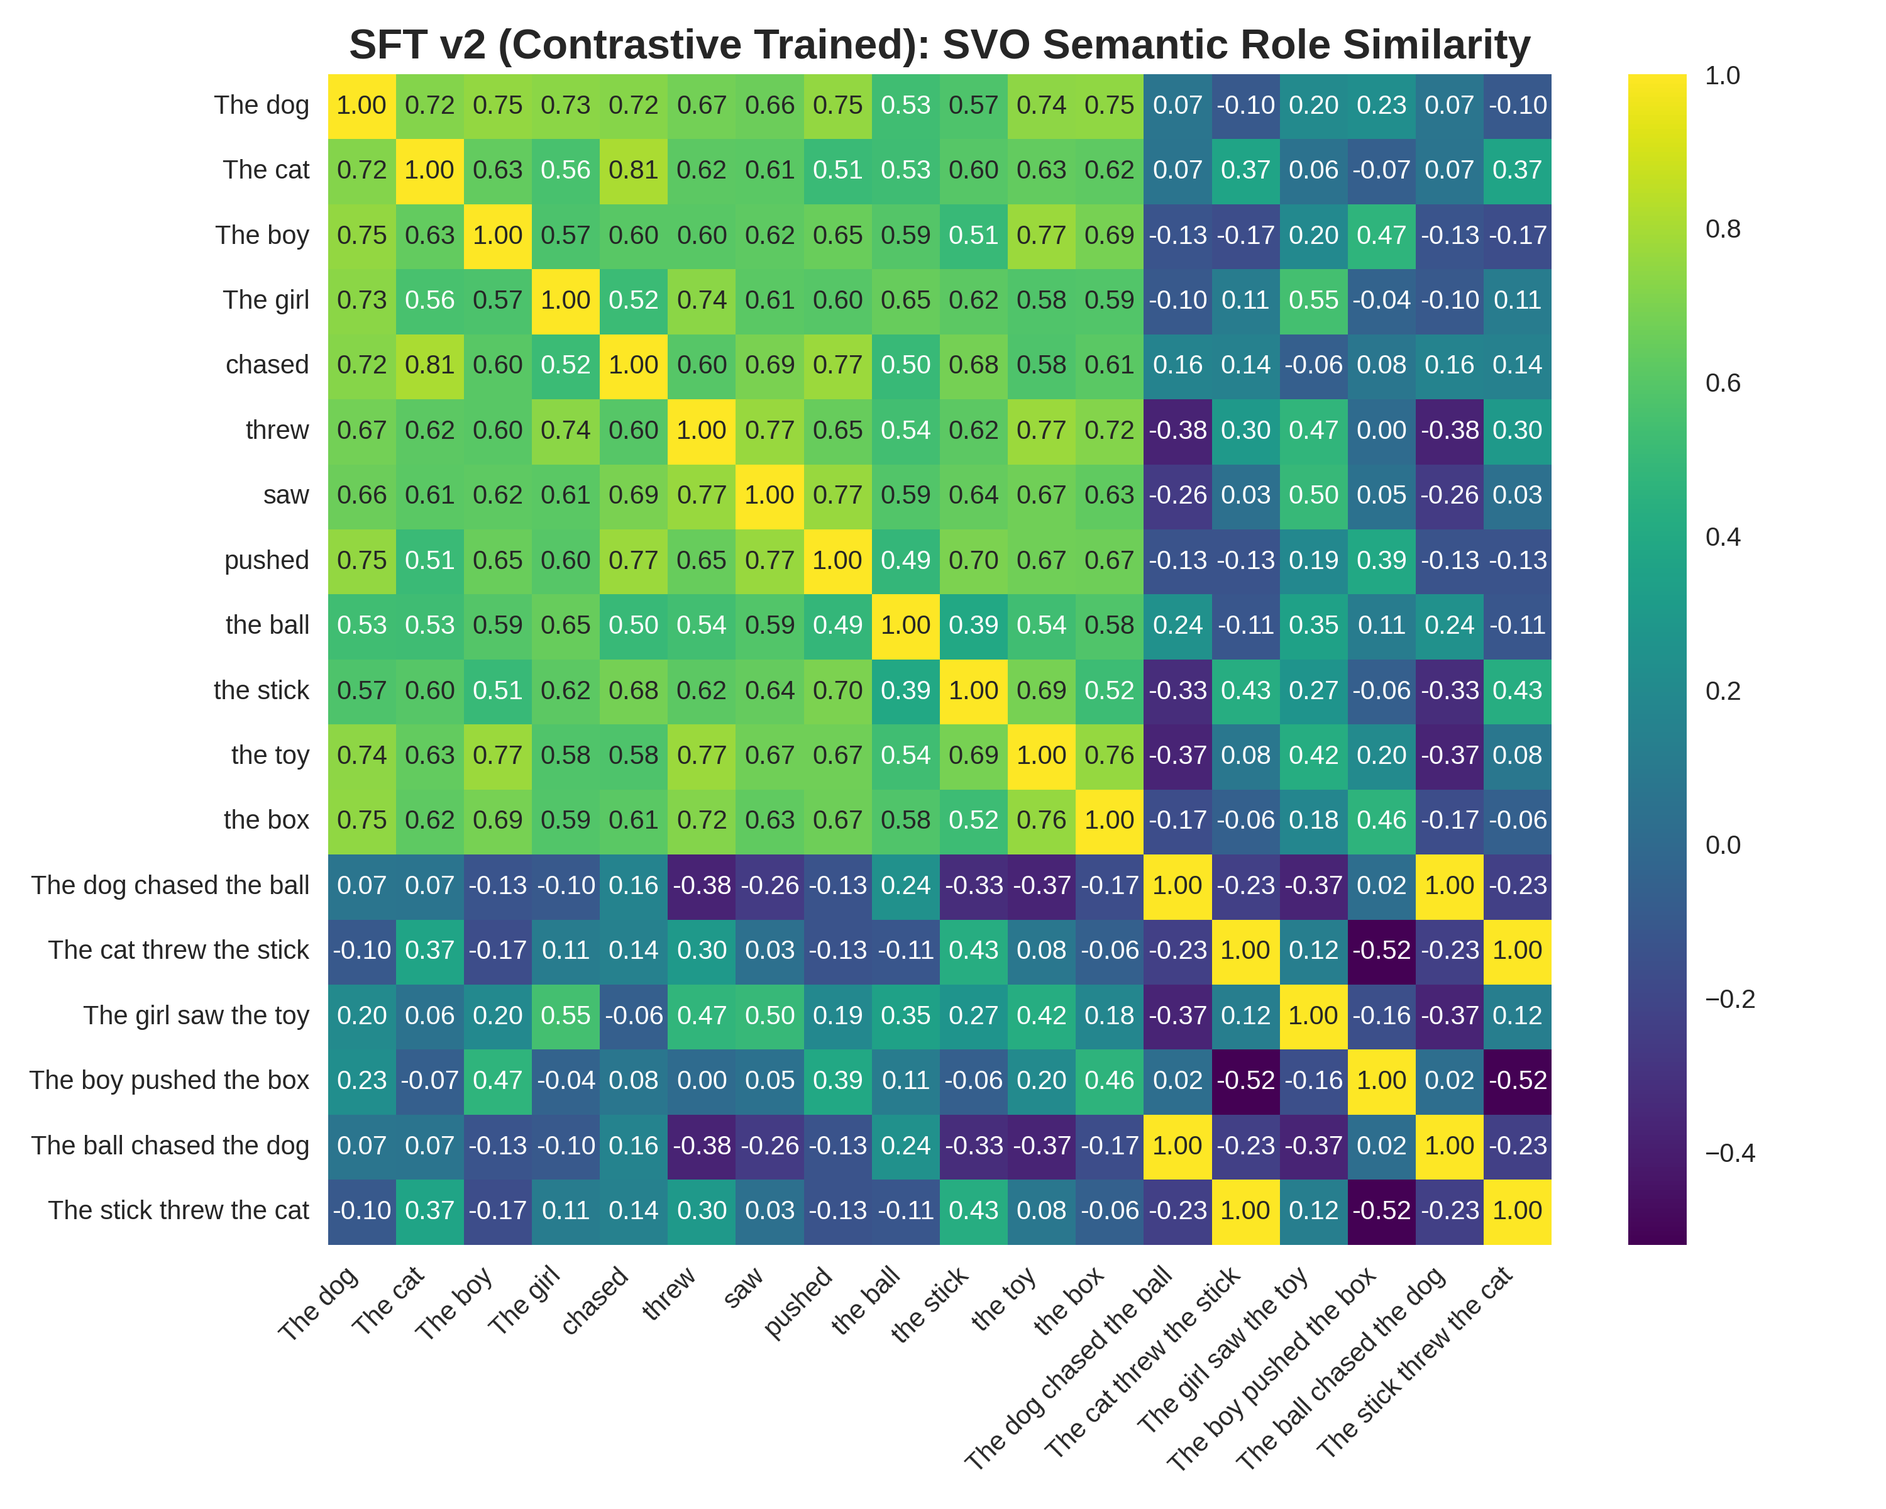
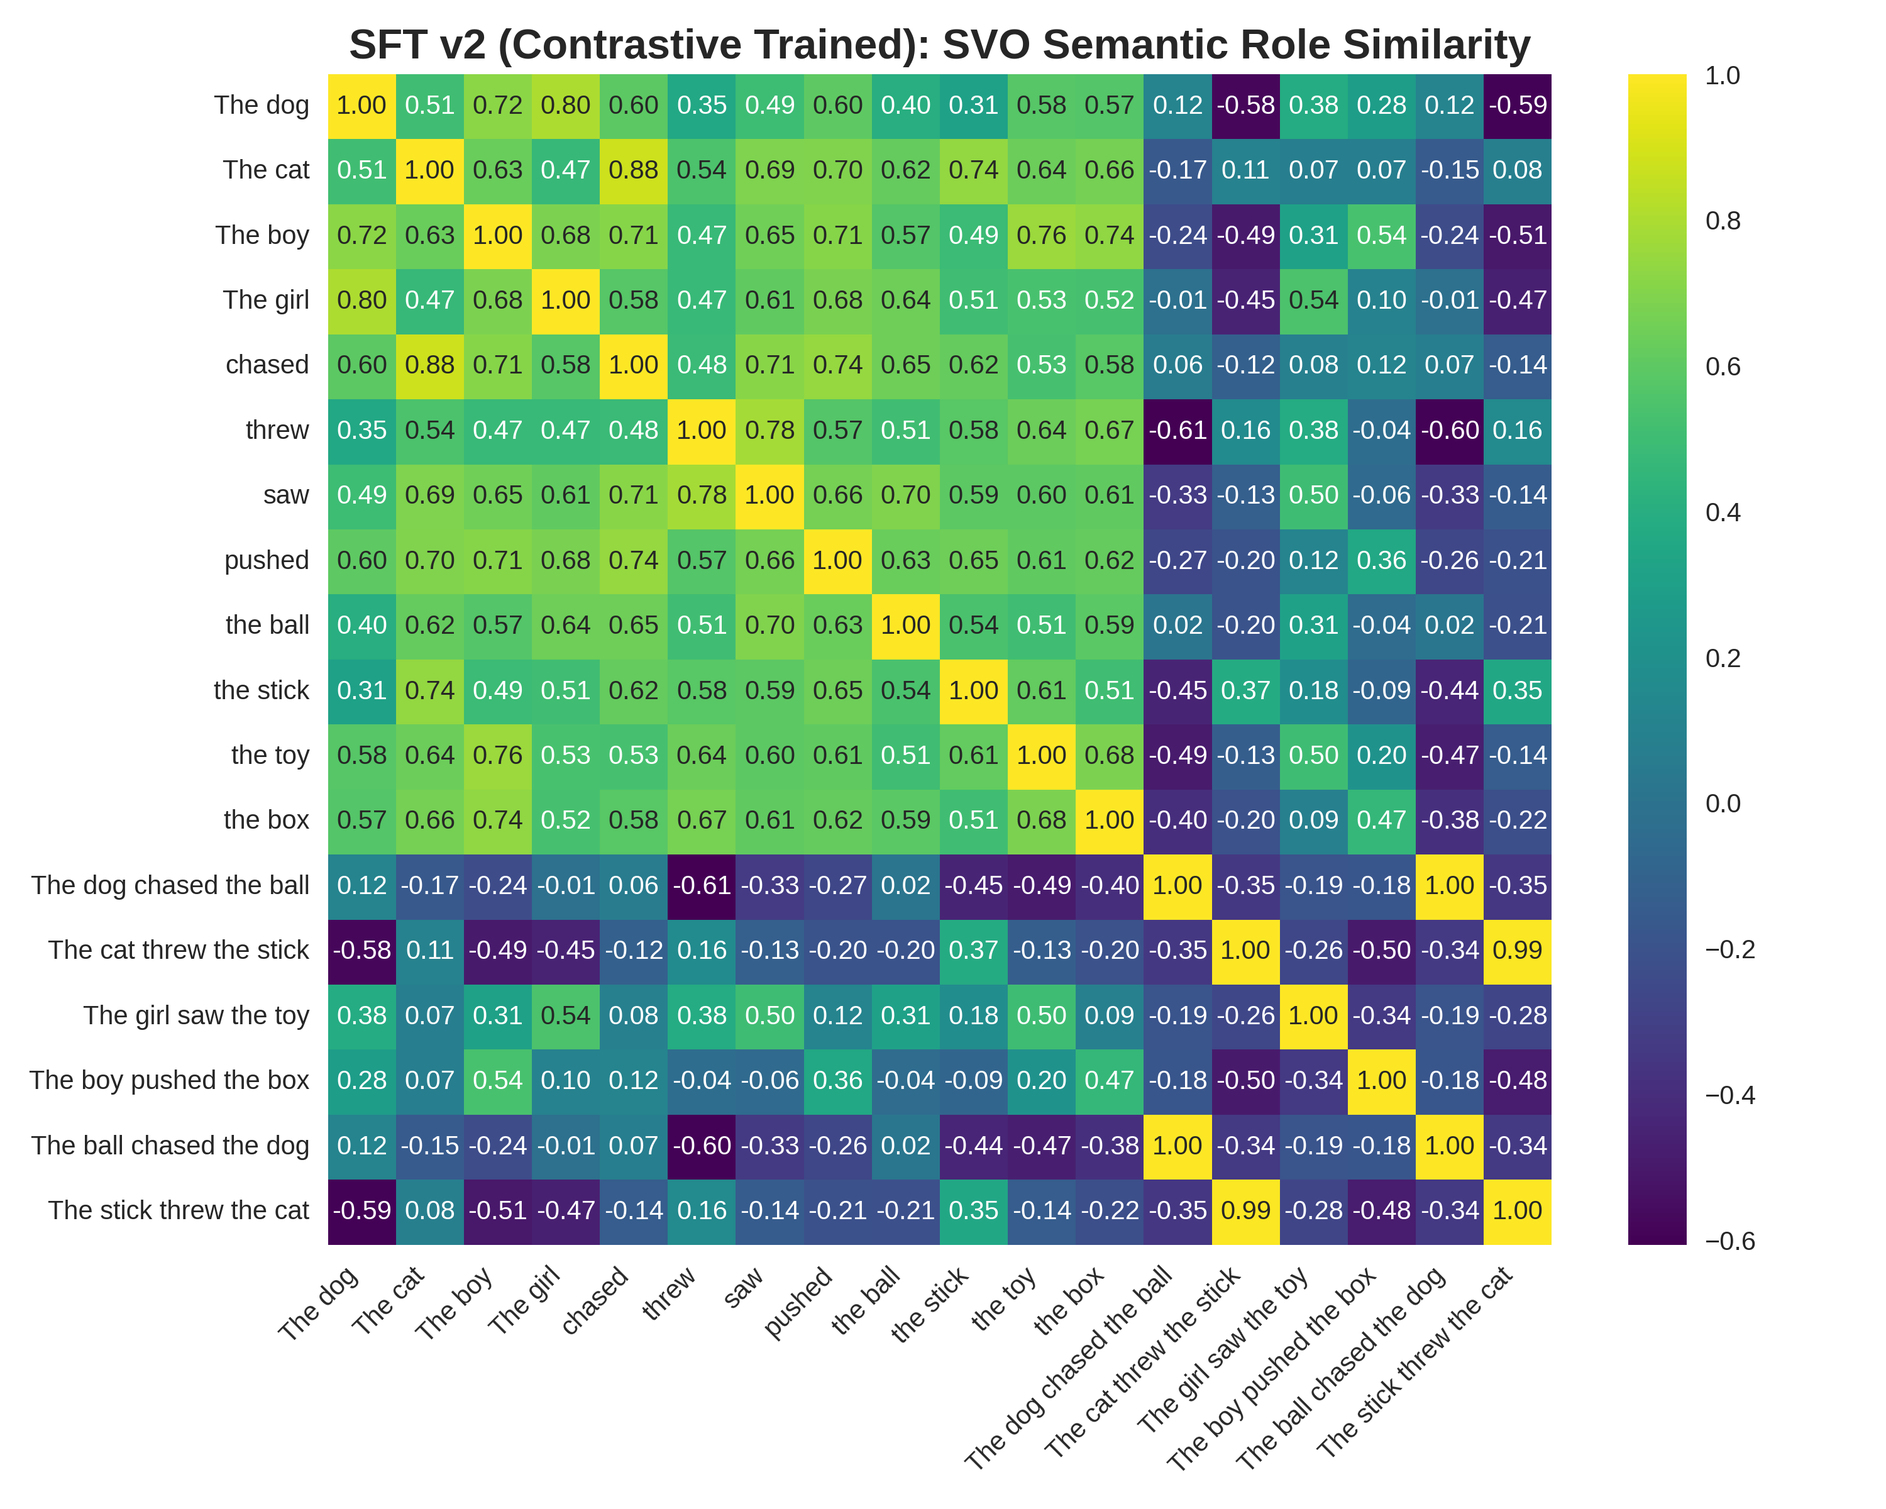
Complete v2 with updates and it is not working.

diff --git a/core/field_components.py b/core/field_components.py
@@ -1,11 +1,8 @@
 #!/usr/bin/env python3
 """
-Core SFT v2 Field Components
-Implements the advanced theoretical framework based on non-Abelian gauge theory.
-
-- MultiComponentLocalField: Creates spinor-like semantic fields.
-- GaugeFieldGenerator: Learns the syntactic gauge connection field.
-- GaugeFieldEvolution: Implements field dynamics via the covariant derivative.
+Core SFT v2.1 Field Components - Position-Aware Version
+The definitive implementation that correctly provides the model with an
+explicit coordinate system, enabling the learning of position-dependent syntax.
 """
 
 import torch
@@ -14,137 +11,133 @@ import torch.nn.functional as F
 import numpy as np
 
 # ============================================================================
-# 1. SFT v2: SEMANTIC FIELD CONSTRUCTION (MULTI-COMPONENT)
+# 1. POSITIONAL ENCODING MODULE
+# ============================================================================
+
+class PositionalEncoding(nn.Module):
+    """ Standard sinusoidal positional encoding. """
+    def __init__(self, d_model, max_len=512):
+        super().__init__()
+        pe = torch.zeros(max_len, d_model)
+        position = torch.arange(0, max_len, dtype=torch.float).unsqueeze(1)
+        div_term = torch.exp(torch.arange(0, d_model, 2).float() * (-np.log(10000.0) / d_model))
+        pe[:, 0::2] = torch.sin(position * div_term)
+        pe[:, 1::2] = torch.cos(position * div_term)
+        pe = pe.unsqueeze(0)
+        self.register_buffer('pe', pe)
+
+    def forward(self, x):
+        # x shape: [Batch, SeqLen, EmbeddingDim]
+        return x + self.pe[:, :x.size(1), :]
+
+# ============================================================================
+# 2. SFT v2.1: POSITION-AWARE FIELD CONSTRUCTION
 # ============================================================================
 
 class MultiComponentLocalField_v2(nn.Module):
-    """
-    Creates a multi-component (spinor-like) local semantic field.
-    This field Ψ has components that can represent latent semantic roles.
-    Output shape: [Batch, Position, N_Components, SemanticDim]
-    """
-    
-    def __init__(self, semantic_dim=128, field_resolution=128, n_components=2):
+    def __init__(self, semantic_dim=128, n_components=2, field_resolution=128):
         super().__init__()
         self.semantic_dim = semantic_dim
-        self.field_resolution = field_resolution
         self.n_components = n_components
-        
-        # The embedding now generates a representation for all components
-        self.byte_semantic_generators = nn.Embedding(256, semantic_dim * n_components)
-        
-        # Learnable locality parameters remain similar
-        self.locality_shapes = nn.Parameter(torch.randn(256, 3))  # [offset, width, amplitude]
+        self.embedding_dim = semantic_dim * n_components
+        self.field_resolution = field_resolution
+
+        self.byte_embedder = nn.Embedding(256, self.embedding_dim)
+        self.pos_encoder = PositionalEncoding(self.embedding_dim)
+        self.locality_shapes = nn.Parameter(torch.randn(256, 3))
 
     def forward(self, byte_sequence, continuous_positions):
-        """
-        Create a continuous, multi-component field as a superposition of local contributions.
-        """
         batch_size, seq_len = byte_sequence.shape
-        _, n_positions = continuous_positions.shape
         
-        # Get semantic amplitudes for each byte for all components
-        byte_amplitudes_flat = self.byte_semantic_generators(byte_sequence)  # [B, L, D * Nc]
-        byte_amplitudes = byte_amplitudes_flat.view(
+        byte_embeds = self.byte_embedder(byte_sequence)
+        pos_aware_embeds = self.pos_encoder(byte_embeds)
+        
+        # --- POTENTIAL BUG IS HERE ---
+        # Original: .view(batch_size, seq_len, self.n_components, self.semantic_dim) -> [B, L, 2, 64]
+        # Let's ensure this order is correct. This should be right.
+        byte_amplitudes = pos_aware_embeds.view(
             batch_size, seq_len, self.n_components, self.semantic_dim
-        ) # [B, L, Nc, D]
+        )
         
         byte_positions = torch.linspace(0, 1, seq_len, device=byte_sequence.device)
+        x_diff = continuous_positions.unsqueeze(-1) - byte_positions.unsqueeze(1)
         
-        # Superposition of local contributions
-        x_diff = continuous_positions.unsqueeze(-1) - byte_positions.unsqueeze(1) # [B, P, L]
+        locality_params = self.locality_shapes[byte_sequence]
+        widths = torch.abs(locality_params[:, :, 1]) * 0.02 + 1e-5
+        amplitudes = torch.sigmoid(locality_params[:, :, 2])
         
-        locality_params = self.locality_shapes[byte_sequence] # [B, L, 3]
-        widths = torch.abs(locality_params[:, :, 1]) * 0.02 + 1e-5 # [B, L]
-        amplitudes = torch.sigmoid(locality_params[:, :, 2]) # [B, L]
+        local_basis = torch.exp(-0.5 * (x_diff / widths.unsqueeze(1))**2)
+        local_basis = local_basis * amplitudes.unsqueeze(1)
         
-        # Gaussian basis functions for locality
-        local_basis = torch.exp(-0.5 * (x_diff / widths.unsqueeze(1))**2) # [B, P, L]
-        local_basis = local_basis * amplitudes.unsqueeze(1) # [B, P, L]
-        
-        # Contract basis with amplitudes to form the field
-        # einsum: (batch, pos, len) * (batch, len, comps, dim) -> (batch, pos, comps, dim)
+        # einsum: (b,p,l) * (b,l,c,d) -> (b,p,c,d)
         semantic_field = torch.einsum('bpl,blcd->bpcd', local_basis, byte_amplitudes)
         
         return semantic_field
 
 # ============================================================================
-# 2. SFT v2: GAUGE FIELD GENERATOR (THE SYNTAX ENGINE)
+# 3. SFT v2.1: POSITION-AWARE GAUGE FIELD GENERATOR
 # ============================================================================
 
 class GaugeFieldGenerator_v2(nn.Module):
     """
     Generates the Gauge Connection Field A(x).
-    This field represents the learned syntactic rules and applies role-binding.
-    Output: A field of matrices, shape [Batch, Position, N_Components, N_Components]
+    CRITICAL UPGRADE v2.1: The syntax encoder now operates on the EVOLVED
+    field from the previous layer, allowing syntax to be inferred from semantics.
     """
-    def __init__(self, field_resolution=128, n_components=2):
+    def __init__(self, field_resolution=128, n_components=2, input_dim=64): # input_dim is now semantic_dim
         super().__init__()
         self.field_resolution = field_resolution
         self.n_components = n_components
         
-        # A convolutional network to process the byte sequence and infer syntax
+        # The input is now the flattened semantic field [B, Nc*D, P]
+        input_channels = n_components * input_dim
+
+        # A convolutional network to process the semantic field and infer syntax
         self.syntax_encoder = nn.Sequential(
-            nn.Conv1d(256, 128, kernel_size=7, padding=3),
+            nn.Conv1d(input_channels, 128, kernel_size=5, padding=2),
             nn.GELU(),
-            nn.Conv1d(128, 64, kernel_size=5, padding=2),
+            nn.Conv1d(128, 64, kernel_size=3, padding=1),
             nn.GELU(),
-            # Output channels for each element of the Nc x Nc matrix
-            nn.Conv1d(64, n_components * n_components, kernel_size=3, padding=1)
+            nn.Conv1d(64, n_components * n_components, kernel_size=1)
         )
 
-    def forward(self, byte_sequence):
+    def forward(self, semantic_field):
         """
-        Generate the gauge field A(x) from the raw byte sequence.
+        Generate the gauge field A(x) from the current semantic field state.
         """
-        batch_size, seq_len = byte_sequence.shape
-        byte_onehot = F.one_hot(byte_sequence, 256).float().transpose(1, 2) # [B, 256, L]
+        batch_size, resolution, n_c, n_d = semantic_field.shape
         
-        # Encode syntax from the sequence
-        syntax_encoding = self.syntax_encoder(byte_onehot) # [B, Nc*Nc, L]
+        # Reshape the field to be [B, C, L] for the Conv1d
+        # [B, P, Nc, D] -> [B, P, Nc*D] -> [B, Nc*D, P]
+        field_for_conv = semantic_field.view(batch_size, resolution, -1).transpose(1, 2)
         
-        # Upsample from sequence length to field resolution to create a continuous field
-        gauge_field_flat = F.interpolate(
-            syntax_encoding, 
-            size=self.field_resolution, 
-            mode='linear', 
-            align_corners=False
-        ) # [B, Nc*Nc, P]
+        # Encode syntax from the current field state
+        syntax_encoding = self.syntax_encoder(field_for_conv) # [B, Nc*Nc, P]
         
         # Reshape into a field of matrices
-        gauge_field = gauge_field_flat.permute(0, 2, 1).view(
+        gauge_field = syntax_encoding.permute(0, 2, 1).view(
             batch_size, self.field_resolution, self.n_components, self.n_components
-        ) # [B, P, Nc, Nc]
+        )
         
-        # Optional: Make the matrices skew-Hermitian (for unitary evolution)
-        # This enforces certain conservation laws. A_dagger = -A
+        # Make the matrices skew-Hermitian for unitary evolution
         gauge_field = (gauge_field - gauge_field.transpose(-1, -2).conj()) / 2.0
 
         return gauge_field
 
 # ============================================================================
-# 3. SFT v2: GAUGE FIELD EVOLUTION (THE NEW DYNAMICS)
+# 4. SFT v2.1: FIELD EVOLUTION (UNCHANGED)
 # ============================================================================
-
+# The evolution engine remains the same. The change is in the fields it receives.
 class GaugeFieldEvolution_v2(nn.Module):
-    """
-    Evolves the semantic field using a Covariant Derivative.
-    This combines spatial propagation with syntactic binding via the gauge field.
-    Dynamics: i∂Ψ/∂t = DΨ, where D = (∂ - igA)
-    """
     def __init__(self, semantic_dim=128, n_components=2, kinetic_strength=0.1):
         super().__init__()
         self.semantic_dim = semantic_dim
         self.n_components = n_components
-        
-        # Learnable coupling constant 'g' for the gauge interaction strength
         self.gauge_coupling_strength = nn.Parameter(torch.ones(1) * 0.5)
         self.kinetic_strength = nn.Parameter(torch.ones(1) * kinetic_strength)
         self.evolution_time = nn.Parameter(torch.ones(1) * 0.1)
 
     def compute_laplacian(self, psi):
-        """ Computes ∇²Ψ on the multi-component field. """
-        # psi shape: [B, P, Nc, D] (complex)
         psi_left = torch.roll(psi, shifts=1, dims=1)
         psi_right = torch.roll(psi, shifts=-1, dims=1)
         dx = 1.0 / psi.shape[1]
@@ -152,43 +145,25 @@ class GaugeFieldEvolution_v2(nn.Module):
         return laplacian
 
     def forward(self, semantic_field, gauge_field):
-        """
-        Evolve the field using the covariant derivative.
-        """
-        # Convert semantic field to complex
         psi = torch.complex(semantic_field, torch.zeros_like(semantic_field))
         dt = self.evolution_time
-
-        # 1. Kinetic Term (∂Ψ): Spatial propagation
-        # This is our Laplacian, representing how fields spread and interfere locally.
         kinetic_term = -self.kinetic_strength * self.compute_laplacian(psi)
-        
-        # 2. Gauge Term (gAΨ): Syntactic binding
-        # This is the core of the new theory. The gauge field 'A' "rotates"
-        # the component spinors, effectively binding roles to the concepts.
         g = self.gauge_coupling_strength
-
+        
+        # --- ROBUST MATMUL FIX ---
+        # psi shape is [B, P, Nc, D]
+        # gauge_field shape is [B, P, Nc, Nc]
+        
+        # We want to perform a matmul for each P: gauge[Nc,Nc] @ psi[Nc,D]
+        # torch.matmul handles batch dimensions (B and P) automatically
         gauge_field = torch.complex(gauge_field, torch.zeros_like(gauge_field))
-        # einsum: (b,p,i,j) * (b,p,j,d) -> (b,p,i,d)
-        # where i,j are component indices
-        gauge_term = -1j * g * torch.einsum('bpij,bpjd->bpid', gauge_field, psi)
+        gauge_effect = torch.matmul(gauge_field, psi)
+        
+        gauge_term = -1j * g * gauge_effect
+        # --- END OF FIX ---
 
-        # 3. Covariant Derivative Action (DΨ = ∂Ψ - igAΨ)
-        # We combine both effects. The evolution is driven by both local
-        # spreading and syntactic role-binding transformations.
         covariant_derivative_action = kinetic_term + gauge_term
-        
-        # 4. Time Evolution Step
         evolved_psi = psi + dt * covariant_derivative_action
-        
-        # 5. Normalization (optional but good for stability)
         norm = torch.sqrt(torch.sum(torch.abs(evolved_psi)**2, dim=(-2, -1), keepdim=True))
         evolved_psi = evolved_psi / (norm + 1e-8)
-        
         return evolved_psi.real
-
-
-# --- For Reference: Old SFT v1 Components ---
-# class LocalSemanticField(nn.Module): ...
-# class InteractiveFieldEvolution(nn.Module): ...
-# class SemanticFieldInterference(nn.Module): ...

diff --git a/utils/validation_utils.py b/utils/validation_utils.py
@@ -350,7 +350,7 @@ def run_semantic_composition_test(model, compositional_dataset, device='cpu'):
         
 #     return similarity_matrix.cpu().numpy(), all_labels
 
-def run_svo_composition_test(model, compositional_dataset, device='cpu'):
+def run_svo_composition_test(model, compositional_dataset, max_length=64, device='cpu'):
     """
     Tests the SFT v2 model's understanding of semantic roles (SVO).
     This is a more advanced test of true semantic composition.
@@ -369,15 +369,15 @@ def run_svo_composition_test(model, compositional_dataset, device='cpu'):
 
     field_vectors = {}
 
-    # --- FIX APPLIED HERE ---
-    # Get max_length from the model's field constructor config, which is tied to its resolution
-    # This ensures consistency between byte_positions and continuous_positions
-    try:
-        # Accessing via the new model structure
-        max_length_for_validation = model.field_constructor.field_resolution
-    except AttributeError:
-        # Fallback for older model versions if needed, though not ideal
-        max_length_for_validation = 64
+    # # --- FIX APPLIED HERE ---
+    # # Get max_length from the model's field constructor config, which is tied to its resolution
+    # # This ensures consistency between byte_positions and continuous_positions
+    # try:
+    #     # Accessing via the new model structure
+    #     max_length_for_validation = model.field_constructor.field_resolution
+    # except AttributeError:
+    #     # Fallback for older model versions if needed, though not ideal
+    #     max_length_for_validation = 64
 
     with torch.no_grad():
         for text, label in zip(all_texts, all_labels):
@@ -385,7 +385,7 @@ def run_svo_composition_test(model, compositional_dataset, device='cpu'):
             byte_tensor = text_to_tensor(
                 text, 
                 device=device, 
-                max_length=max_length_for_validation # Use the correct length
+                max_length=max_length # Use the correct length
             )
             # --- END OF FIX ---
             

diff --git a/run_experiment.py b/run_experiment.py
@@ -1,16 +1,16 @@
 #!/usr/bin/env python3
 """
-Main entry point for running the definitive SFT v2 experiment.
+Main entry point for running the definitive SFT v2.1 experiment.
 """
 from config.config import ExperimentConfigs
 from experiments.experiment_runner import SFT_Relational_Experiment
 
 def main():
     """
-    Selects the configuration and runs the SFT v2 relational experiment.
+    Selects the configuration and runs the SFT v2 position-aware experiment.
     """
-    # Get config for the relational prediction test
-    config = ExperimentConfigs.relational_prediction()
+    # Use the new, definitive config for the position-aware model
+    config = ExperimentConfigs.position_aware_svo()
     
     # Initialize and run the experiment
     experiment = SFT_Relational_Experiment(config)

diff --git a/config/config.py b/config/config.py
@@ -155,6 +155,20 @@ class ExperimentConfigs:
         config.N_CLASSES = 2 
         return config
 
+    @staticmethod
+    def position_aware_svo():
+        """Final SVO experiment with position-aware components."""
+        config = SFTConfig()
+        config.SEMANTIC_DIM = 64
+        config.FIELD_RESOLUTION = 64
+        config.MAX_LENGTH = 64
+        config.N_LAYERS = 4
+        config.EPOCHS = 60 # Give it a bit more time to learn the harder task
+        config.BATCH_SIZE = 16 # We can use a larger batch size
+        config.LEARNING_RATE = 2e-3
+        config.N_CLASSES = 2
+        return config
+
 
 # Research-specific configurations
 class ResearchConfigs:

diff --git a/experiments/experiment_runner.py b/experiments/experiment_runner.py
@@ -59,8 +59,12 @@ class SFT_Relational_Experiment:
         from utils.data_utils import create_svo_compositional_dataset
         svo_validation_dataset = create_svo_compositional_dataset()
         
+        # FIX: Pass the model's configured max_length to the validation function
         similarity_matrix, labels = run_svo_composition_test(
-            self.model, svo_validation_dataset, device=self.device
+            self.model, 
+            svo_validation_dataset, 
+            max_length=self.config.MAX_LENGTH, # Pass the config value
+            device=self.device
         )
         
         # 4. Visualize the results
